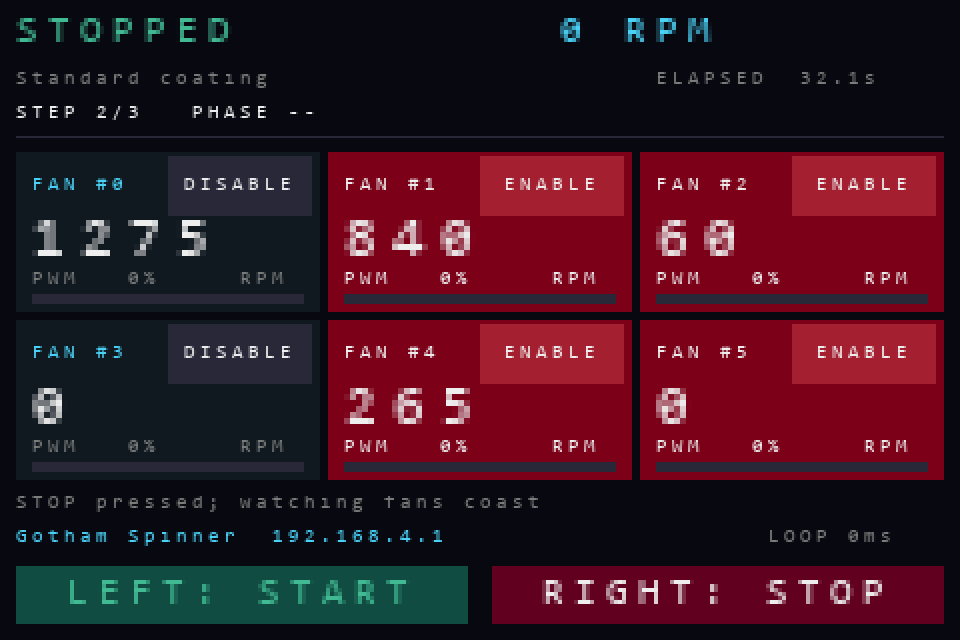
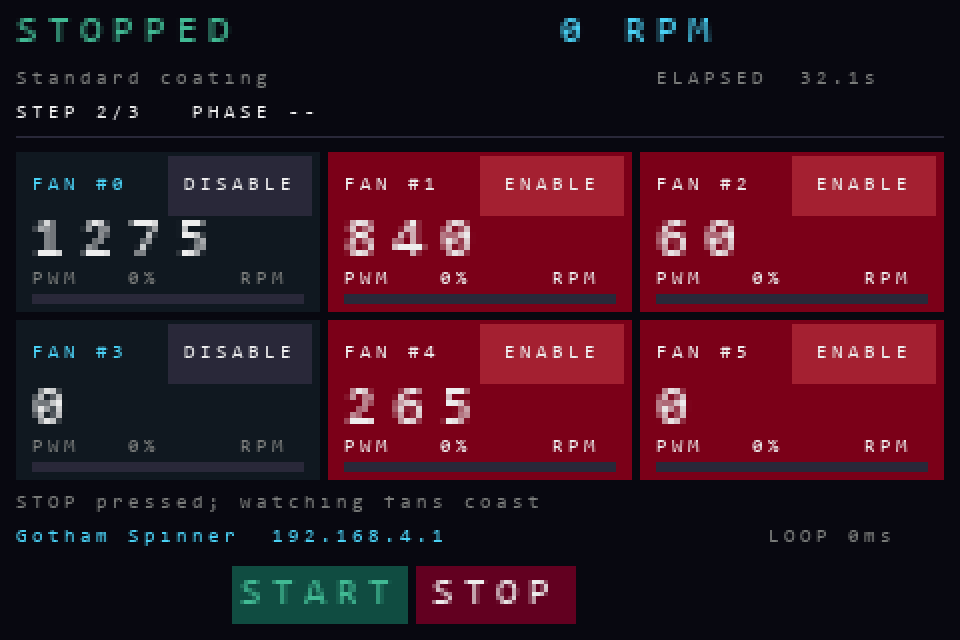
Align compact START and STOP labels with physical buttons

Changed region(s): [[0.0, 0.875, 1.0, 1.0]]

diff --git a/device/dashboard.py b/device/dashboard.py
@@ -22,10 +22,15 @@ class Dashboard:
         self._notice = None
         display.fill(BG)
         display.hline(8, 68, 464, TRACK)
-        display.fill_rect(8, 283, 226, 29, 0x1268)
-        display.fill_rect(246, 283, 226, 29, 0x6004)
-        display.text('LEFT: START', 33, 290, GREEN, scale=2, bg=0x1268)
-        display.text('RIGHT: STOP', 271, 290, WHITE, scale=2, bg=0x6004)
+        # Physical buttons sit beneath x~160/248 of the lit display. The
+        # measured 26.6 mm left / 44.5 mm right offsets reference outer glass,
+        # whose asymmetric bezel is visible in 52Pi's EP-0127-03 photograph.
+        for label, center, width, foreground, background in (
+                ('START', 160, 88, GREEN, 0x1268),
+                ('STOP', 248, 80, WHITE, 0x6004)):
+            display.fill_rect(center - width // 2, 283, width, 29, background)
+            display.text(label, center - len(label) * 8, 290,
+                         foreground, scale=2, bg=background)
 
     def set_notice(self, text=None):
         """Override the footer until the caller clears a transient notice."""

diff --git a/artifacts/validation.md b/artifacts/validation.md
@@ -142,3 +142,9 @@ The register positions were checked against the [RP2350 GPIO definitions](https:
 - **Normal application restored:** startup reached `TOUCH_READY` and `GOTHAM_READY` with the user's all-six selection, showing numeric zeros at zero power. The initial short startup sample reached a 1 ms maximum loop lag; the final idle sample recorded 15 ms. [Initial startup](continuous-rpm-initial-startup.txt), [final idle observation](continuous-rpm-startup.txt).
 
 These checks verify real GPIO output overrides, live PIO/DMA resource operation, and the core-1 display/control pipeline. Scripted RPM does not verify physical tach accuracy or actual six-fan coast-down. No positive-power motor test or physical touch-alignment test was performed in this update.
+
+## Physical button label alignment — 2026-09-09
+
+Replaced the wide LEFT/RIGHT footer panels with compact START and STOP labels centered at display x=160 and x=248, with respective widths of 88 and 80 pixels. The [manufacturer's straight-on photograph](https://wiki.52pi.com/images/7/7e/EP-0127-03.jpg) shows the active display at approximately image x=423–836 and button centers at x=560/636. Mapping into the 480-pixel display gives about x=159/248. The builder's 26.6 mm from the left and 44.5 mm from the right fit the outer glass edges; unequal bezel margins explain why applying those offsets directly to the lit display was inconsistent. These remain photo-derived alignment estimates.
+
+All **12 dashboard tests passed**, and the real drawing calls were rendered and visually checked in the updated [dashboard preview](dashboard-preview.png). Only `dashboard.py` was deployed to the identity-verified project Pico on COM7, with SHA-256 readback passing. [Deployment transcript](button-label-deploy.txt). After reboot, `TOUCH_READY` and `GOTHAM_READY` appeared, the current saved selection `(0, 1, 2, 4, 5)` was retained, and all outputs remained at zero power. [Startup transcript](button-label-startup.txt). Recipes and fan selections were not edited; COM4/COM5 were not accessed. Physical label-to-button alignment has not been measured on the assembled unit.

diff --git a/README.md b/README.md
@@ -20,6 +20,8 @@ MicroPython controller for **Raspberry Pi Pico 2 W**, six **ARCTIC P12 Pro** fan
 
 The joystick belongs to the earlier manual bench UI and does not change power in this application. Motor start is available only through the physical button.
 
+The compact **START** and **STOP** footer labels are centered above the physical buttons, at approximately display x=160 and x=248. These positions come from the [manufacturer's straight-on board photograph](https://wiki.52pi.com/images/7/7e/EP-0127-03.jpg); the builder's 26.6 mm left / 44.5 mm right measurements fit the outer glass edges, which have unequal bezel margins. The footer labels do not act as touch controls.
+
 The TFT and browser always show a numeric RPM for each fan, including idle, disabled, and STOP/coast-down states. **Show zero below** defaults to **60 RPM**: a reading below 60 displays 0; exactly 60 remains 60. Raw tach measurements remain available to the seeker. When no valid recent measurement exists the number is also 0, and the browser labels it **No recent tach**; this does not prove the shaft is stationary.
 
 An enabled fan turns **red** after staying outside the configured RPM percentage band for the configured time. Its actual requested power and bar remain visible, and red clears on the first in-bounds reading. Disabled channels retain their red disabled styling, zero requested power, and no participation in control or warning checks. The phase countdown shows remaining ramp or dwell time.
